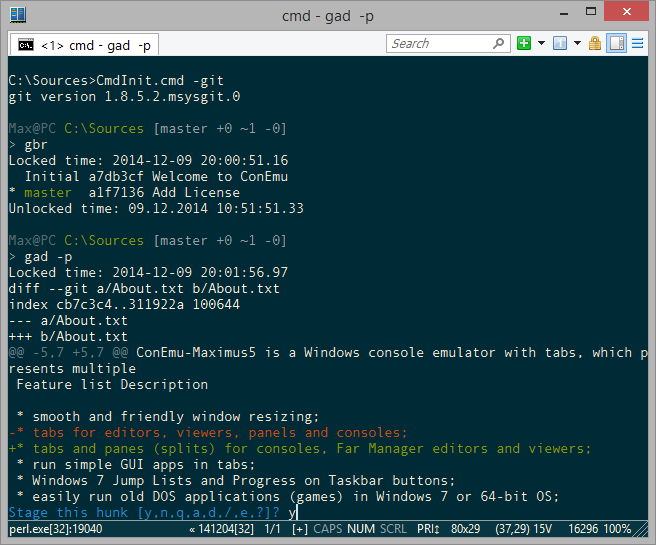
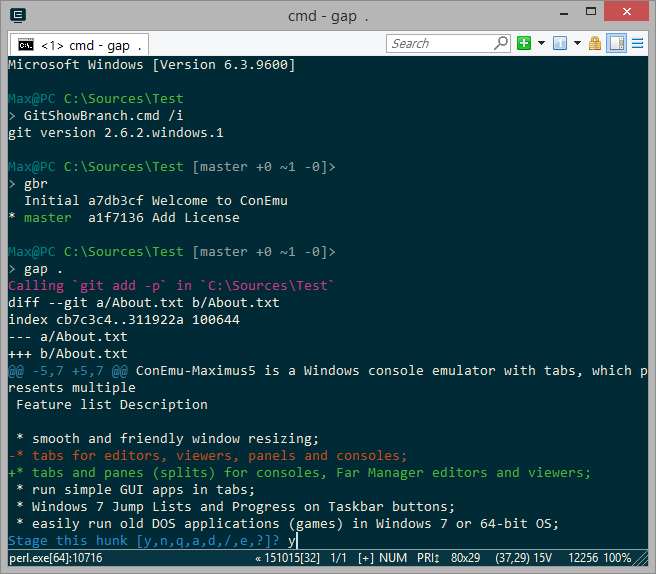
Update Solarized screenshots

Changed region(s): [[0.0, 0.0, 1.0, 0.7174], [0.0, 0.7486, 1.0, 0.9982]]

diff --git a/en/SolarizedColors.md b/en/SolarizedColors.md
@@ -6,6 +6,8 @@ title: "ConEmu | Solarized Colors"
 breadcrumbs:
  - url: TableOfContents.html#tips-and-tweaks
    title: Tips and Tweaks
+ - url: GitForWindows.html
+   title Using Git for Windows
 ---
 
 # Solarized, ConEmu, git and settings
@@ -13,12 +15,23 @@ breadcrumbs:
 [Solarized](http://ethanschoonover.com/solarized) is an eye-candy color scheme
 specially designed for console and GUI applications.
 
+The screenshot below shows `<ConEmu>` palette adopted for Windows' console applications.
+
 ![ConEmu: Solarized Git](/img/SolarizedGit.png)
 
-But this scheme has eight monotones and eight accent colors in opposite
-to the Windows standard palette and many others which has twelve accent colors.
+* [Solarized scheme limitation](#limitation)
+  * [Setup your application](#Setup_your_application)
+  * [Use modified color scheme](#Use_modified_color_scheme)
 
-That may be a problem for some console applications which suppose that
+
+
+## Solarized scheme limitation  {#limitation}
+
+Standard ‘Solarazed’ color scheme has eight monotones and eight accent colors,
+in opposite to the Windows standard palette and many others,
+which have twelve accent colors.
+
+That may be a problem for many console applications which suppose that
 both lower and upper color octets has accented colors. Look at screenshot,
 colors 0..15 show Solarized palette, colors 16..31 show standard Windows colors.
 
@@ -27,11 +40,15 @@ colors 0..15 show Solarized palette, colors 16..31 show standard Windows colors.
 If your application looks weird, some colors are fade or undistinguished there are two ways.
 
 
-## Setup your application  {#Setup_your_application}
 
-For example, [MsysGit](http://msysgit.github.io/) uses low color octet
+### Setup your application  {#Setup_your_application}
+
+For example, [Git for Windows](GitForWindows.html) uses low color octet
 (dark green actually) for displaying branch names, updated (indexed) files,
-new diffs' lines and may be smth else. Just tell git use ‘green bold’ insted.
+new diffs' lines and may be smth else.
+
+If you want to use unmodified ‘Solarized’ scheme and have distinctive colors,
+just tell git use ‘green bold’ insted.
 
 ~~~
 git config --global color.diff.new "green bold"
@@ -40,11 +57,17 @@ git config --global color.branch.current "green bold"
 ~~~
 
 
-## Use modified color scheme  {#Use_modified_color_scheme}
+
+### Use modified color scheme  {#Use_modified_color_scheme}
 
 ConEmu has several Solarized schemes.
-For example `<Solarized Git>` was optimized for vanilla [MSysGit](http://msysgit.github.io/),
-`<Solarized (Luke Maciak)>` has accented colors in lower octet, and so on.
+
+* `<ConEmu>` was optimized for Windows' console applications, because there are
+  twelve accent colors, which are usual to standard Windows console palette.
+  This scheme is default one in ConEmu.
+* `<Solarized Git>` was optimized for vanilla [MSysGit](http://msysgit.github.io/).
+* `<Solarized (Luke Maciak)>` has accented colors in lower octet.
+
 Just choose the desired scheme from dropdown list box.
 
-![ConEmu: Settings' Colors](/img/Settings-Colors3.png)
+![ConEmu: Settings' Colors](/img/Settings-Colors2.png)
